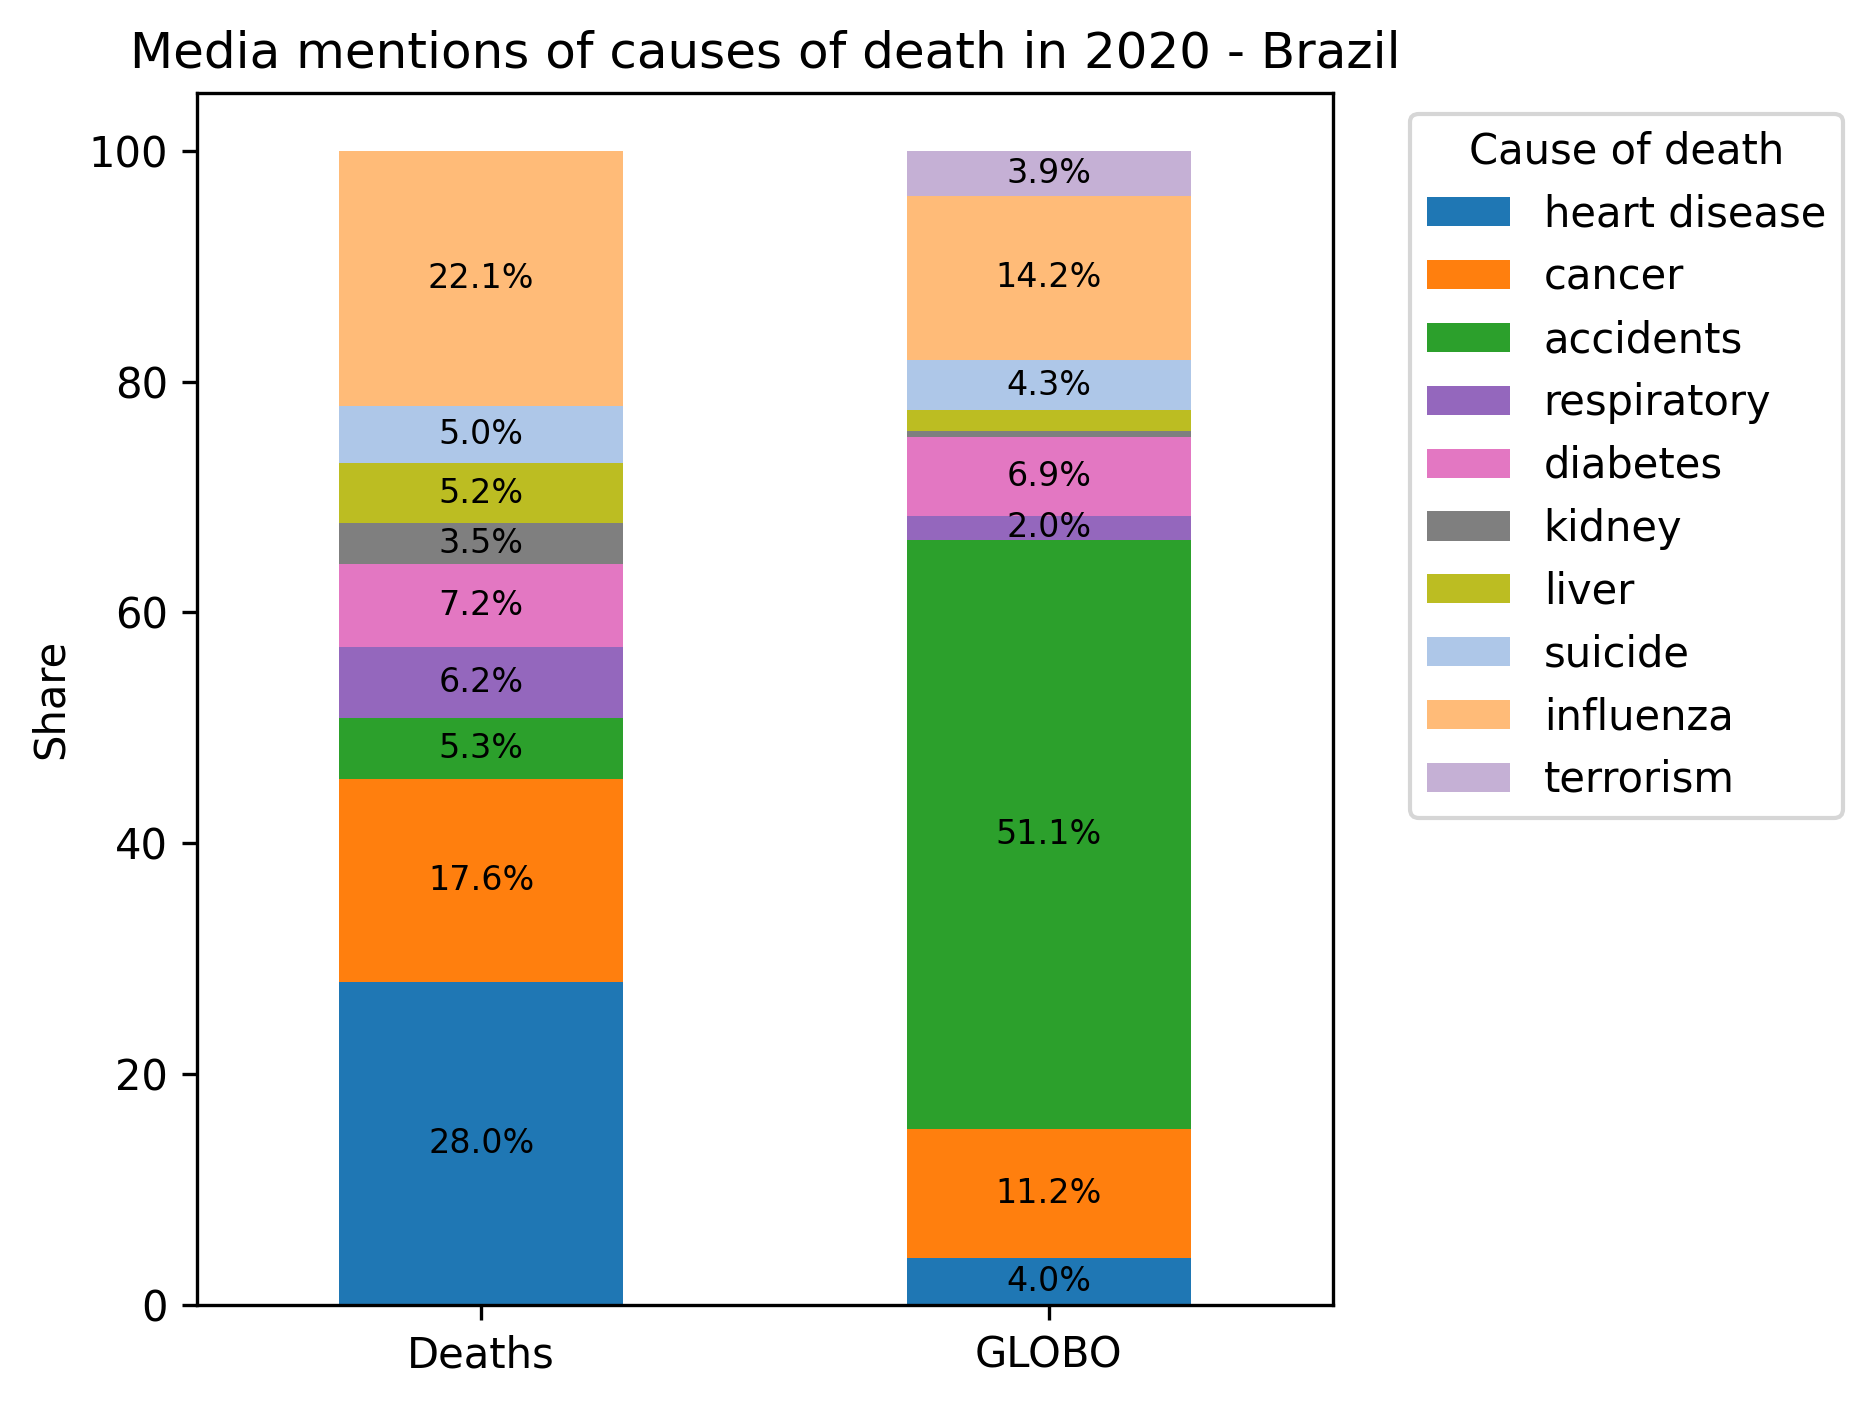
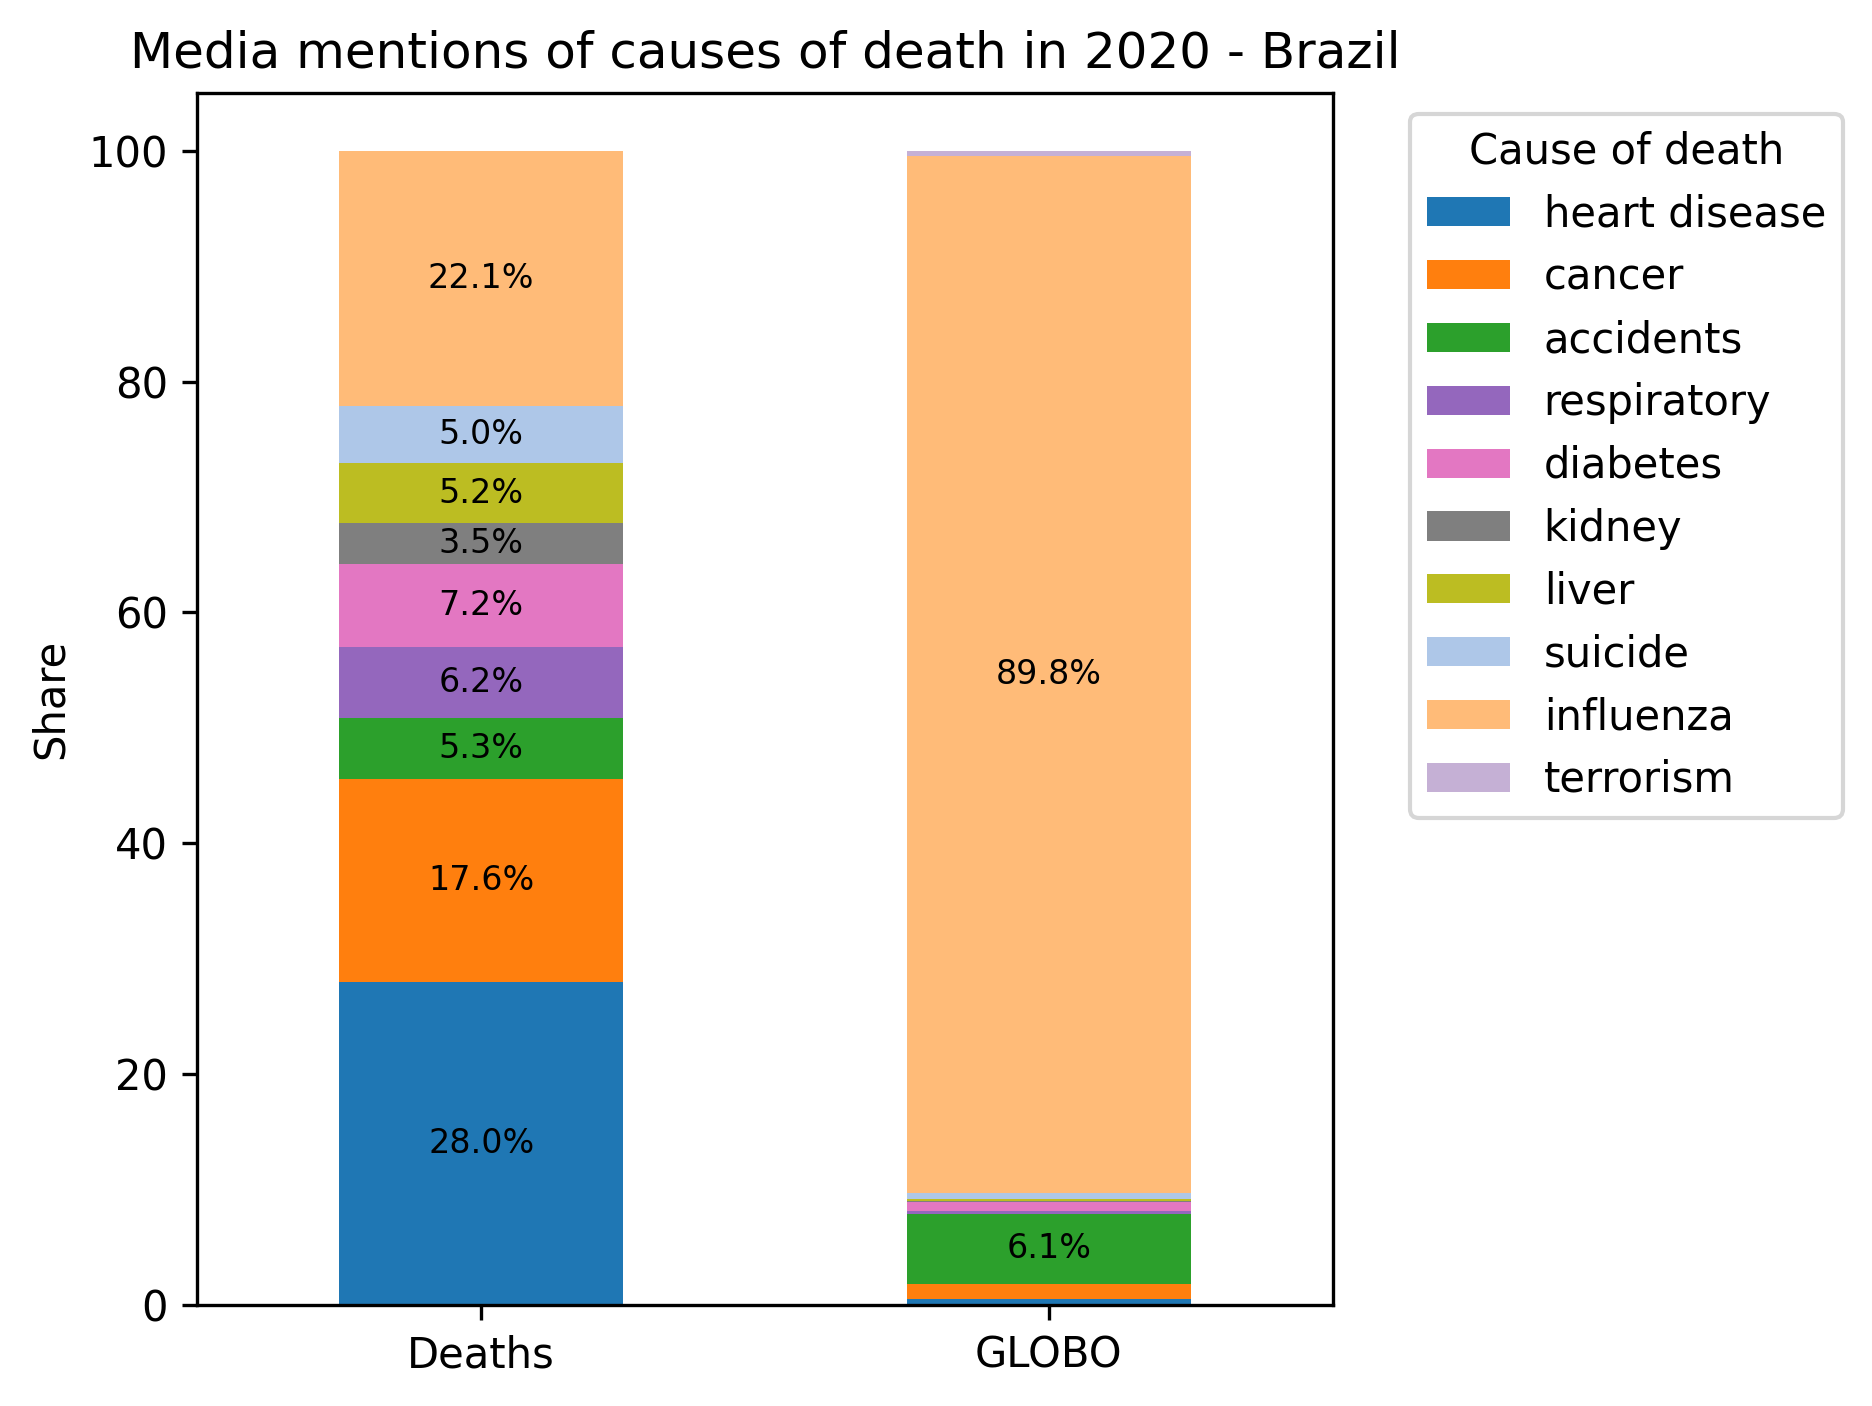
Improve brazil data to properly account for influenza

Changed region(s): [[0.4647, 0.2447, 0.6506, 0.9481], [0.4647, 0.0917, 0.6506, 0.1529], [0.5267, 0.1835, 0.5887, 0.2141]]

diff --git a/configs/bra.py b/configs/bra.py
@@ -30,9 +30,12 @@ CONFIG = {
     # Note: WHO has broad categories, so some causes are not available:
     # - stroke: included in "Cardiovascular diseases"
     # - alzheimers: included in "Neuropsychiatric conditions"
-    # - covid: included in "Respiratory infections" (not separate in 2020 WHO data)
+    # - covid: included in "Respiratory infections" (not separate in WHO)
     # - drug overdose: not separately categorized
     # - homicide: included in "Intentional injuries"
+    #
+    # Using WHO data means we can't separate COVID from flu/pneumonia.
+    # For 2020, "influenza" will include COVID deaths (282,637 total).
     "causes_of_death": [
         "heart disease",
         "cancer",
@@ -43,9 +46,9 @@ CONFIG = {
         "diabetes",
         "kidney",
         "liver",
-        # "covid",  # Not separate in WHO 2020 data (included in respiratory infections)
+        # "covid",  # Not separate in WHO (part of respiratory infections)
         "suicide",
-        "influenza",
+        "influenza",  # Includes COVID in 2020 (WHO limitation)
         # "drug overdose",  # Not in WHO
         # "homicide",  # Not separate in WHO (part of intentional injuries)
         "terrorism",
@@ -54,22 +57,17 @@ CONFIG = {
     # WHO data doesn't need mapping (handled by load_who_data.py)
     "causes_map": {},
 
-    # Colors for visualization
+    # Colors for visualization (only for causes in causes_of_death list)
     "colors": {
         "heart disease": "#1f77b4",
         "cancer": "#ff7f0e",
         "accidents": "#2ca02c",
-        "stroke": "#d62728",
         "respiratory": "#9467bd",
-        "alzheimers": "#8c564b",
         "diabetes": "#e377c2",
         "kidney": "#7f7f7f",
         "liver": "#bcbd22",
-        "covid": "#17becf",
         "suicide": "#aec7e8",
-        "influenza": "#ffbb78",
-        "drug overdose": "#98df8a",
-        "homicide": "#ff9896",
+        "influenza": "#ffbb78",  # Includes COVID coverage for 2020
         "terrorism": "#c5b0d5",
     },
 
@@ -178,28 +176,6 @@ CONFIG = {
             "exclude_terms": [],
         },
 
-        "stroke": {
-            "single_terms": [
-                "derrame cerebral",
-                "AVC",
-                "acidente vascular cerebral",
-                "derrame",
-                "isquemia cerebral",
-                "hemorragia cerebral",
-                "embolia cerebral",
-                "neurologia",
-            ],
-            "combinations": [
-                "derrame cerebral",
-                "AVC cerebral",
-                "acidente vascular cerebral",
-                "derrame cérebro",
-                "isquemia cerebral",
-                "hemorragia cerebral",
-            ],
-            "exclude_terms": [],
-        },
-
         "respiratory": {
             "single_terms": [
                 "doença pulmonar obstrutiva crônica",
@@ -218,21 +194,6 @@ CONFIG = {
                 "enfisema pulmão",
                 "asma pulmão",
                 "respiratória pulmão",
-            ],
-            "exclude_terms": [],
-        },
-
-        "alzheimers": {
-            "single_terms": [
-                "Alzheimer",
-                "Alzheimer's",
-                "doença de Alzheimer",
-                "demência",
-            ],
-            "combinations": [
-                "Alzheimer Alzheimer",
-                "Alzheimer demência",
-                "demência demência",
             ],
             "exclude_terms": [],
         },
@@ -299,24 +260,6 @@ CONFIG = {
             "exclude_terms": [],
         },
 
-        "covid": {
-            "single_terms": [
-                "COVID-19",
-                "COVID",
-                "coronavírus",
-                "coronavirus",
-                "SARS-CoV-2",
-                "covid",
-            ],
-            "combinations": [
-                "COVID-19 COVID-19",
-                "coronavírus coronavírus",
-                "COVID coronavírus",
-                "SARS-CoV-2 COVID",
-            ],
-            "exclude_terms": [],
-        },
-
         "suicide": {
             "single_terms": [
                 "suicídio",
@@ -336,13 +279,23 @@ CONFIG = {
         },
 
         "influenza": {
+            # NOTE: Includes COVID keywords because WHO's "Respiratory infections"
+            # category includes COVID + flu + pneumonia for 2020
             "single_terms": [
+                # Flu/pneumonia terms
                 "influenza",
                 "gripe",
                 "H1N1",
                 "pneumonia",
                 "infecção respiratória",
                 "infecção pulmonar",
+                # COVID terms (merged due to WHO data limitation)
+                "COVID-19",
+                "COVID",
+                "coronavírus",
+                "coronavirus",
+                "SARS-CoV-2",
+                "covid",
             ],
             "combinations": [
                 "influenza gripe",
@@ -350,61 +303,9 @@ CONFIG = {
                 "gripe respiratória",
                 "pneumonia pulmão",
                 "pneumonia respiratória",
-            ],
-            "exclude_terms": [],
-        },
-
-        "drug overdose": {
-            "single_terms": [
-                "overdose",
-                "sobredose",
-                "uso de drogas",
-                "dependência química",
-                "vício em drogas",
-                "abuso de substâncias",
-                "crack",
-                "cocaína",
-                "heroína",
-                "opioides",
-                "drogas",
-            ],
-            "combinations": [
-                "overdose drogas",
-                "sobredose drogas",
-                "overdose morte",
-                "dependência química drogas",
-                "vício drogas",
-                "abuso substâncias drogas",
-                "cocaína overdose",
-            ],
-            "exclude_terms": [],
-        },
-
-        "homicide": {
-            "single_terms": [
-                "homicídio",
-                "assassinato",
-                "assassino",
-                "morte violenta",
-                "crime violento",
-                "violência",
-                "tiroteio",
-                "bala perdida",
-                "fuzilamento",
-                "execução",
-                "esfaqueamento",
-                "facada",
-                "latrocínio",
-            ],
-            "combinations": [
-                "homicídio homicídio",
-                "homicídio assassinato",
-                "homicídio morte",
-                "assassinato morte",
-                "crime violento morte",
-                "violência morte",
-                "tiroteio morte",
-                "tiroteio violência",
+                "COVID-19 COVID-19",
+                "coronavírus coronavírus",
+                "COVID coronavírus",
             ],
             "exclude_terms": [],
         },
